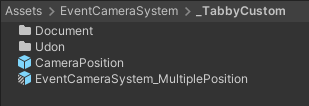
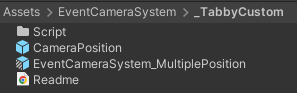
:books: キャプチャの修正

Changed region(s): [[0.0303, 0.2366, 0.8485, 0.9247], [0.0, 0.0, 1.0, 0.2366]]

diff --git a/Readme.md b/Readme.md
@@ -32,8 +32,7 @@ https://vrchat.com/home/world/wrld_56dd50ea-9c0c-4d4b-a4a0-1cfba83fd6e2/info
 ![](Document/TabbyAssetsFolder.png)
 |||
 |-|-|
-|Docmentフォルダ|本書で参照しているフォルダです<br>触らんで大丈夫です|
-|Udonフォルダ|ギミック動作用のUdonです<br>触らんで大丈夫です|
+|Scriptフォルダ|ギミック動作用のUdonです<br>触らんで大丈夫です|
 |CameraPositionプレハブ |カメラ位置を増やしたい場合に追加するプレハブです<br>設定手順は後述します|
 |EventCameraSystem_MultiplePositionプレハブ|メインのギミックです<br>Sceneポン置きで使用できます<br>細かい設定手順は後述します|
 |||
